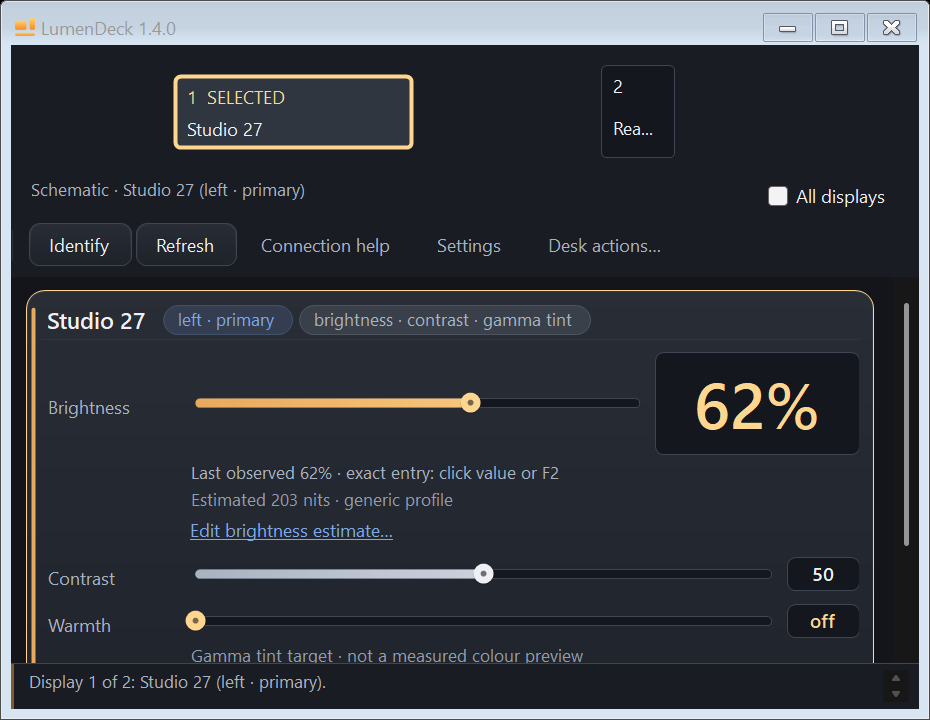
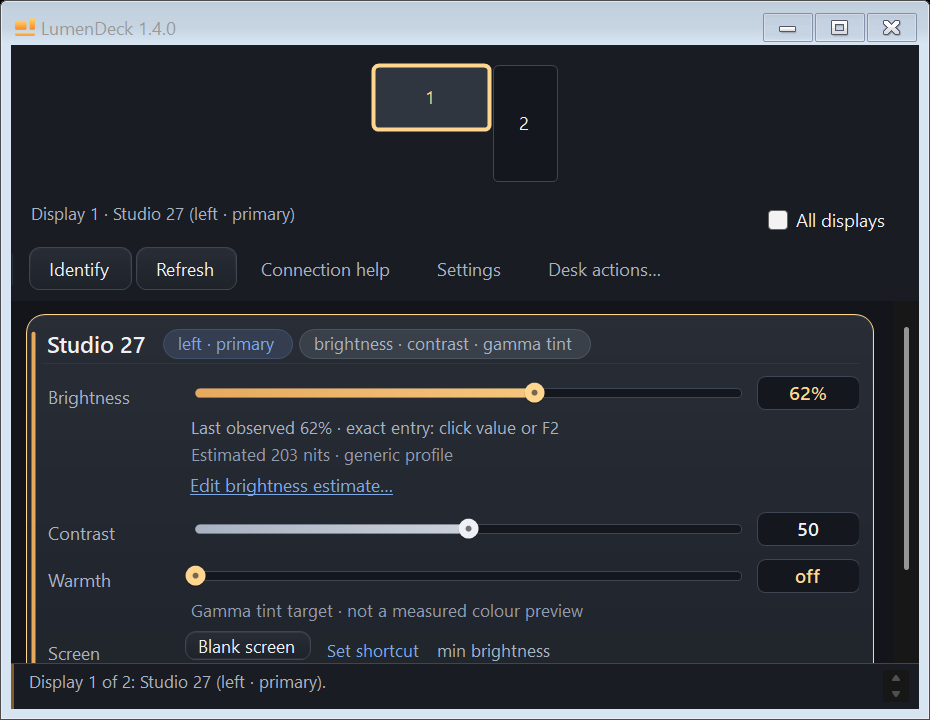
Record compact desktop candidate and refresh verified previews

diff --git a/docs/checkpoint.md b/docs/checkpoint.md
@@ -1,95 +1,92 @@
 # Current checkpoint
 
-Updated 2026-10-15. This milestone completes the **1.4.0 display-layout and
-adjustment-reliability repair candidate**, following review of a real staggered
-desk screenshot. Work started from clean source `1c532f5` on
-`fix/project-review-20261015`; unrelated files were preserved.
+Updated 2026-10-15. This checkpoint corrects two regressions in the 1.4.0 desk
+remote: oversized adjustment values and a selector that misrepresented staggered
+Windows desktop coordinates. It starts from `cd40254` on
+`fix/compact-physical-desk-20261015`.
 
 ## Delivered behavior
 
-- Scaled brightness captions stay on one line and principal percentages retain
-  their full height, including cards built after asynchronous display discovery.
-- Staggered schematic displays retain readable identifiers. Header/map sections
-  settle without overlap after compact-window and DPI transitions.
-- Nested Night saver controls wrap inside their command row. Native fractional-DPI
-  transitions settle parent widths before measuring children and avoid an extra
-  command-height rounding correction.
-- Refused GUI gamma requests restore the prior model/readout and preserve saved
-  warmth and Custom. Successful retry still persists normally.
-- Explicit CLI requests report unsupported/refused brightness or contrast without
-  replacing Custom. Signed percentage steps handle surrounding whitespace consistently.
-- Public previews now use actual native DPI, including minimum and stacked windows.
-  Their original-pixel master, uniform derivatives and capture/build hashes bind the
-  evidence to committed source and reject stale or altered inputs.
+- Brightness, contrast and warmth share compact 30-DIP rows and the same value
+  typography. Endpoint measurement preserves exact-entry readability, including
+  Kelvin, without a large percentage dominating the card.
+- One affine projection preserves Windows desktop offsets, adjacency, vertical
+  overlap and pixel proportions. Near-aligned screens no longer occupy artificial
+  grid rows. Compact tiles show numbers; the caption and card retain full identity.
+- Arrow navigation follows the projected geometry, preferring overlapping neighbours.
+- Observation feedback no longer leaves a stale native horizontal scrollbar. The
+  card list removes only a native bar that has no managed horizontal extent,
+  without resetting its vertical scroll position or hiding actual overflow.
+- Compact-window review prioritizes everyday controls, readable text and disclosure
+  of secondary commands. The screenshot regression now runs in the full UI suite,
+  including the state after synthetic brightness, contrast and warmth requests.
 
-The recorded portable build and public captures use immutable source
-`6a0bd4ed17cb8c908f119c555573ae8e99a00503`. A subsequent test-only correction respects
-the native maximum window size on small hosted desktops; it does not change the
-product or the recorded 150% images. The product repairs were introduced in `114eed4`.
-See [repair details](repair-review.md), [capture method](showcase.md) and
-[image receipt](assets/screenshot.json).
+The product, portable candidate and regenerated public previews use immutable source
+`3da37c63da5824fd0b135f9338e0106e6619a96a`. See [UI design](ui-design.md),
+[capture method](showcase.md) and [image receipt](assets/screenshot.json).
+The earlier repair candidate compiled and passed its checks but did not catch these
+presentation regressions; it is superseded. Passing layout checks is not a substitute
+for inspecting the rendered result after interaction.
 
 ## Verification
 
 | Check actually run | Result |
 | --- | --- |
-| Release solution and both test-project builds, warnings as errors | Passed, no warnings/errors |
-| Full ControlTests on the repaired product | 4,586 passed; product source unchanged by subsequent capture tooling |
-| Full AppTests including the new showcase layouts and hosted-size correction | 2,227 passed |
-| Focused native showcase generation from committed source | 30 passed |
-| Capture exporter regressions | 6 tests passed, including stale source/build, changed pixels/dimensions and invalid portfolio masters |
-| Screenshot-like staggered displays after native DPI rebuild | Passed at 125% and 150% |
-| Native cross-display DPI round trips | 64 passed with existing layout-work limits |
+| Release solution and both test-project builds, warnings as errors | Passed, zero warnings/errors |
+| Full ControlTests | 4,586 passed |
+| Full AppTests, now including the screenshot regression | 2,321 passed |
+| Focused screenshot layout after adjustment requests | 57 passed on native 125% and 150% displays |
+| Keyboard-help follow-up after copy update | 36 passed |
+| Committed-source native showcase | 33 passed |
+| Capture exporter regressions | 6 tests passed |
+| Native DPI round trips within full AppTests | Passed existing layout-work and no-drift limits |
 | Release source-path/privacy canaries | Passed |
-| Extracted portable package and package regressions | Passed; allowlist, hashes, versions, startup probes and refusal/state-preservation cases |
-| Candidate identity record against archive and both executables | Passed |
+| Extracted package and package regressions | Passed, including installer state and compressed bundle checks |
 
-The complete native documentation, minimum and stacked images, portfolio master and
-1200x750/480x300/320x200 derivatives were visually inspected. Captures use fictitious
-displays on a private desktop. The owner's screenshot and monitor identities are not
-published. Full AppTests includes synthetic 100/150/200% layout coverage; native
-125/150% transitions are separate evidence. Neither establishes foreground dragging
-or physical driver acceptance. Detailed local logs remain under the ignored
-`artifacts/review-20261015` directory.
+An earlier full run timed out in the schedule-editor scenario while another test
+project was running. The isolated schedule scenario passed 30 checks; subsequent
+sequential full runs passed. No timeout or assertion was relaxed.
 
-## Portable candidate and GitHub handoff
+Native documentation, minimum and stacked windows and portfolio derivatives were
+visually inspected. The staggered screenshot-sized fixture was inspected at 125%
+and 150%, including confirmed adjustment feedback. All captures use fictitious
+identities on a private desktop. The owner's screenshot and display identities
+are not published. Tests use fake hardware and temporary state; no physical
+brightness, gamma or Windows display configuration changes were requested by them.
+Detailed logs remain in ignored `artifacts/compact-desk-20261015`.
 
-The verified local package is
-`dist/build-0128e70c80d94f90a86044843e65337a/verified/LumenDeck-1.4.0-win-x64.zip`.
[1 lines of base64/hex data omitted]
-Both executables report `1.4.0+6a0bd4ed17cb8c908f119c555573ae8e99a00503`, file version
-`1.4.0.0`. [Release readiness](release-readiness.md) is the single current identity
-record consumed by `Check-ReleaseRecord.ps1`. Previous candidates are retained.
+## Portable candidate and installation
 
-The owner requested a GitHub checkpoint. The completed unit is fast-forwarded to
-`main` after local verification. The existing workflow runs on all
-branches, builds and tests on Windows, and uploads a verified CI package; it does
-not publish releases or deploy the app. No workflow was weakened or disabled.
-Check the exact pushed revision in [GitHub Actions](https://github.com/snowyukitty/LumenDeck/actions/workflows/build.yml);
-local results do not imply hosted success. The session handoff reports the actual
-remote outcome without another documentation-only CI run.
+The verified local archive is
+`dist/build-bc60b91a39444f01b854bce3881798f6/verified/LumenDeck-1.4.0-win-x64.zip`.
[1 lines of base64/hex data omitted]
+Both executables report `1.4.0+3da37c63da5824fd0b135f9338e0106e6619a96a`,
+file version `1.4.0.0`. [Release readiness](release-readiness.md) is the single
+candidate identity record checked against the actual payloads.
 
-The first [hosted run](https://github.com/snowyukitty/LumenDeck/actions/runs/38695703456)
-passed compilation, privacy and ControlTests, then rejected the new portfolio
-fixture's requested 1200-pixel width on the runner's smaller desktop. WinForms
-clamps normal windows to `MaxWindowTrackSize`. The follow-up derives reachable
-native dimensions and preserves the exact 8:5 ratio, size/visibility/scrollbar
-assertions and export's minimum-resolution requirement. Small-desktop and fractional
-DPI sizing cases are explicitly checked. The follow-up is pushed for a new hosted
-result; no failed assertion or workflow check is disabled.
+The prior `6a0bd4e` repair build was installed earlier in this session. A backup and
+verified replacement payload are prepared. Normal tray Exit is required before
+replacing files; force termination bypasses restoration and state saving. The final
+handoff and local installation receipt record the actual installed build, matching
+binary hashes, shortcut checks and settings preservation. Local backups and receipts
+remain ignored and are not packaged.
 
-No release/tag or installed-app replacement is part of this checkpoint. The running
-installation remains separate from this new portable candidate.
+## GitHub and remaining acceptance
 
-## Resume and remaining acceptance
+The owner requested a pushed checkpoint. The finished unit is fast-forwarded to
+`main` after local verification. The existing workflow runs on all branches,
+builds/tests on Windows and uploads a verified CI package; it does not publish a
+release or deploy the installation. No workflow was weakened or disabled.
+The final handoff reports the actual [GitHub Actions](https://github.com/snowyukitty/LumenDeck/actions/workflows/build.yml)
+result for the pushed revision. Local success does not imply hosted success.
 
 Physical DDC/WMI/gamma, Night saver/blackout restoration, hot-plug/interrupted
-recovery and emitted-light behavior were not exercised. A hardware acceptance pass
-should preserve initial settings and verify restoration. Foreground mixed-DPI
-pointer dragging, compositor appearance, Narrator speech, real contrast-theme
-switching and clean-machine install/update/uninstall remain manual acceptance.
+recovery and emitted-light behavior remain manual acceptance. Foreground mixed-DPI
+dragging, DWM material, Narrator speech, real contrast-theme switching and a clean
+Windows install/update/uninstall are not established by these fixtures.
 
-Scope was this repository: product UI/CLI repairs, regression/capture tools,
-generated synthetic previews, changelog and developer documentation. The project
-lease is released at handoff. Resume by checking Git status and this checkpoint;
-keep source, portable candidate, installed application and published release distinct.
+Scope is this repository: UI implementation, regression coverage, synthetic public
+previews and developer documentation. Reference design material was read only;
+no private reference files or artwork were copied into the repository. The project
+lease is released at handoff. Resume with Git status and this checkpoint, keeping
+source, candidate, installed application and published release distinct.

diff --git a/docs/release-readiness.md b/docs/release-readiness.md
@@ -1,57 +1,51 @@
 # Release readiness
 
-## Current 1.4.0 repair candidate
+## Current 1.4.0 compact desktop candidate
 
-Updated 2026-10-15. This is a verified local portable candidate and source
-checkpoint, not a published release or replacement of the installed application.
+Updated 2026-10-15. This verified local candidate corrects the oversized readout
+and inaccurate desktop-map regressions. It is not a published release.
 
 | Item | Recorded value |
 | --- | --- |
-| Source commit | `6a0bd4ed17cb8c908f119c555573ae8e99a00503` - display repairs and native-DPI capture tools |
-| GUI recorded build | `1.4.0+6a0bd4ed17cb8c908f119c555573ae8e99a00503` |
+| Source commit | `3da37c63da5824fd0b135f9338e0106e6619a96a` - compact controls and faithful desktop geometry |
+| GUI recorded build | `1.4.0+3da37c63da5824fd0b135f9338e0106e6619a96a` |
 | Package | `LumenDeck-1.4.0-win-x64.zip` |
[2 lines of base64/hex data omitted]
 | Distribution | Self-contained Windows x64 GUI and CLI |
 | File version | `1.4.0.0` for both executables |
-| Verification | Release warnings-as-errors builds; 4,586 ControlTests; 2,227 AppTests including the hosted-size fixture correction; 30 committed-source native showcase checks; 6 capture-export regression tests |
+| Verification | Release warnings-as-errors builds; 4,586 ControlTests; 2,321 AppTests; 57 native screenshot checks; 33 committed-source showcase checks; 6 capture-export regressions |
 
 Both executable product versions match the recorded GUI build. The extracted
 package passes its exact file allowlist, hashes, versions, bundled source-path
 checks, standalone CLI and synthetic GUI startup with SDK/runtime lookup removed.
 Package regressions cover altered/extra/version inputs, launch-failure environment
 restoration, running-app refusal and isolated installer-state preservation.
-The hosted-size follow-up changes tests/documentation only; this candidate's
-product source and recorded images remain unchanged.
 
 [scripts/Check-ReleaseRecord.ps1](../scripts/Check-ReleaseRecord.ps1) verifies this
 single candidate record against the ZIP digest, checksum sidecar and both actual
-executable payloads. Historical candidates are described separately below so the
-record cannot ambiguously match multiple Package/SHA-256 rows.
+executable payloads. Historical candidates below do not duplicate the identity rows.
 
-See the [checkpoint](checkpoint.md) for the local artifact path, scope and evidence;
-[packaging](packaging.md) defines the reproducible verification contract and limits.
-The [public preview receipt](assets/screenshot.json) is bound to this source and
-uses fictitious displays. Package probes never change the real installation or
-exercise monitor control.
+See the [checkpoint](checkpoint.md) for the local artifact and installation state;
+[packaging](packaging.md) defines the verification contract and limits. The
+[public preview receipt](assets/screenshot.json) is bound to this source and uses
+fictitious displays. Package probes do not change the real installation or exercise
+physical monitor control.
 
 ## Historical candidates
 
-The first 1.4.0 desk-remote candidate used source `4e27b37` and the initial repair
-candidate used `114eed4`. Their evidence remains in Git history and the
-[repair review](repair-review.md). They are superseded by the record above.
-
-The previously installed 1.3.0 candidate used source
-`e34bffc2e57d63ed8f30ad28dbb2eae328e54c98`. Its verified installation record is retained
-in [the prior readiness document](https://github.com/snowyukitty/LumenDeck/blob/1c532f5bef6b4998378f57d992896eea2d122906/docs/release-readiness.md).
-That record establishes its own binary/shortcut/state checks, not acceptance of this
-newer candidate. No release or release tag was created for this milestone.
+The `6a0bd4e` repair candidate was installed earlier in this session. The subsequent
+owner review identified oversized percentages and inaccurate staggered screen
+positions; the record above supersedes that candidate. Earlier 1.4.0 candidates
+used `4e27b37` and `114eed4`; their evidence remains in Git history and the
+[repair review](repair-review.md). Historical installation records establish only
+their own binary, shortcut and state checks. No release or release tag was created.
 
 ## Remaining release acceptance
 
 | Area | Required evidence |
 | --- | --- |
-| Hardware | Real brightness/gamma acceptance, Night saver/blackout restoration, hot-plug and interrupted recovery, with original state preserved |
-| Native interaction | Foreground keyboard/pointer focus, popups, continuous mixed-DPI dragging, other text sizes, actual contrast themes and screen readers |
+| Hardware | Real brightness/gamma acceptance, Night saver/blackout restoration, hot-plug and interrupted recovery, preserving original state |
+| Native interaction | Foreground keyboard/pointer focus, continuous mixed-DPI dragging, other text sizes, real contrast themes and screen readers |
 | Download/install | Clean Windows environment and separate-profile install/update/uninstall |
 | Download security | Exact-file unsigned-download and antivirus acceptance; no false-positive finding is claimed |
 | Review | Candidate-specific source and release-critical content review; older snapshots do not grant whole-app approval |
@@ -59,5 +53,5 @@ newer candidate. No release or release tag was created for this milestone.
 | Publication | Explicit approval for the intended release, tag and downloadable assets |
 
 Successful fixture and packaging checks do not establish those manual outcomes.
-The source checkpoint, local portable candidate, installed app and published
-release remain separate states.
+Source checkpoint, portable candidate, installed app and published release remain
+separate states.
